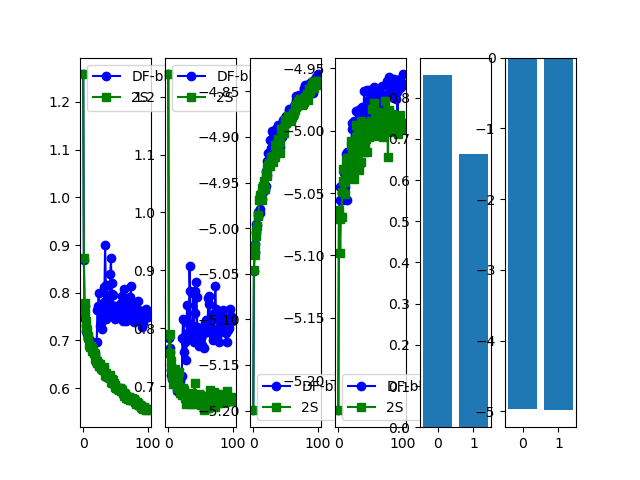
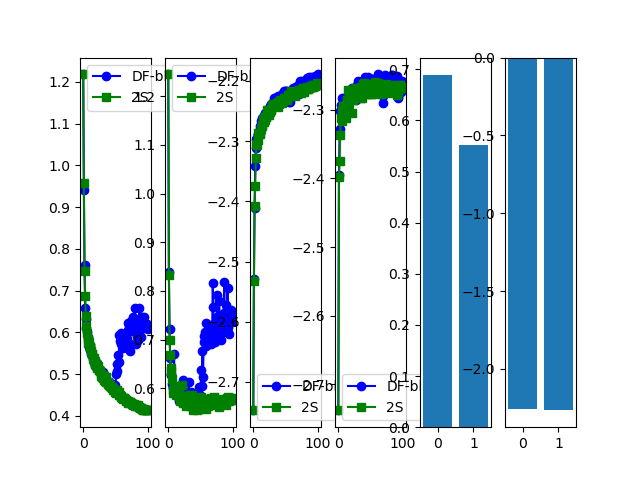
fully hybrid method

diff --git a/blockQP.py b/blockQP.py
@@ -46,7 +46,7 @@ def learnEdgeProbs_simple(train_data, validate_data, test_data, f_save, f_time, 
 
     f_save.write("mode, epoch, average loss, defender utility, simulated defender utility\n")
 
-    pretrain_epochs = 50
+    pretrain_epochs = n_epochs
     for epoch in range(-1, n_epochs):
         df_weight = np.clip((epoch-1) / pretrain_epochs, 0, 1)
         ts_weight = 1 - df_weight
